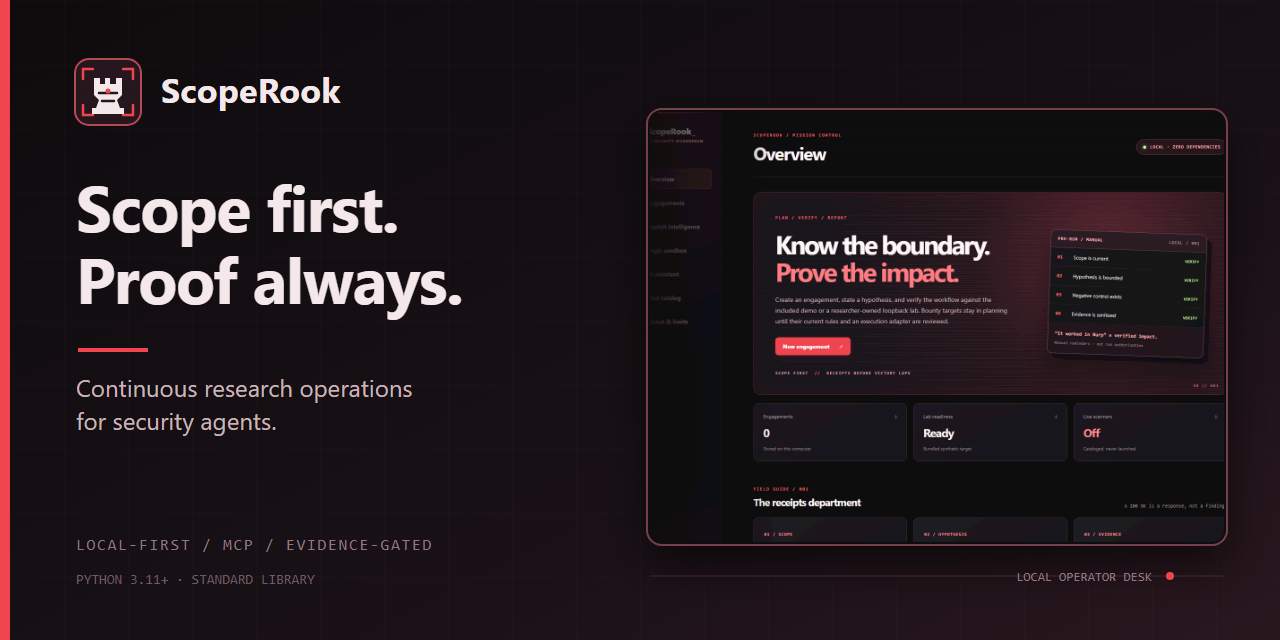
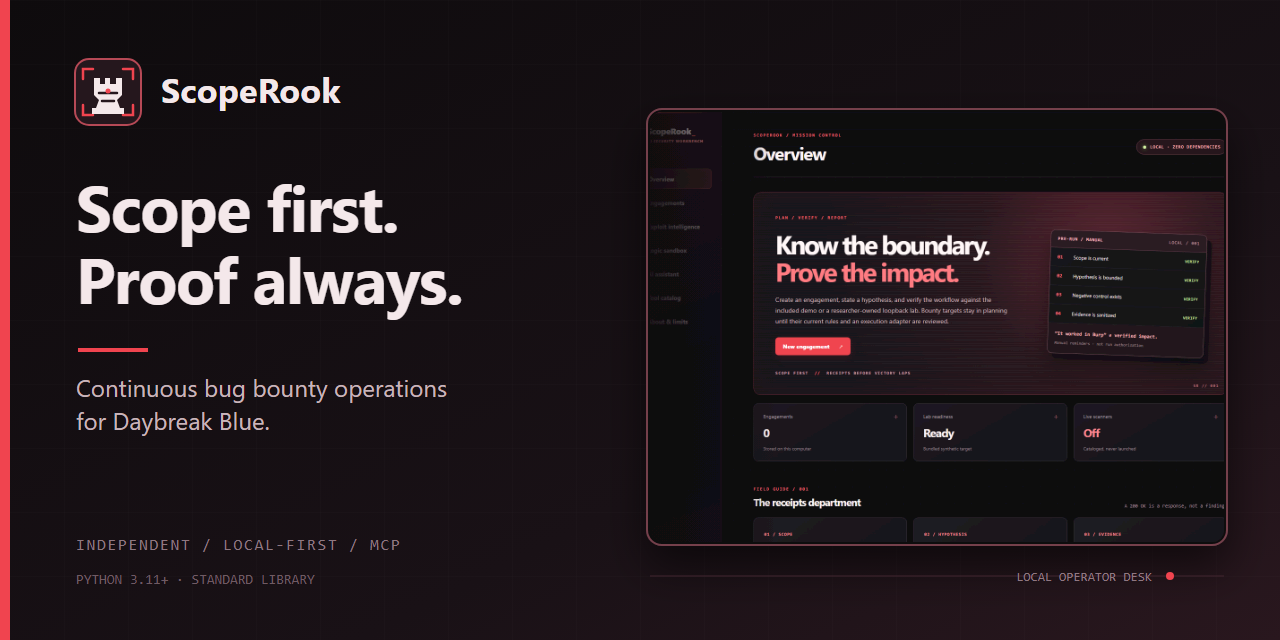
License and position ScopeRook for Daybreak Blue

Changed region(s): [[0.0938, 0.5938, 0.3438, 0.6875], [0.0625, 0.8438, 0.3438, 0.875]]

diff --git a/README.md b/README.md
@@ -2,27 +2,30 @@
   <img src="static/brand.svg" width="96" alt="ScopeRook logo">
 </p>
 
-<h1 align="center">ScopeRook</h1>
+<h1 align="center">ScopeRook for Daybreak Blue</h1>
 
 <p align="center"><strong>Scope first. Proof always.</strong></p>
 
 <p align="center">
-  A local-first operating layer for continuous, authorized bug bounty research with Codex, Daybreak Blue, and other MCP clients.
+  The local-first bug bounty operating layer built for Daybreak Blue.
 </p>
 
 <p align="center">
   <img alt="CI" src="https://img.shields.io/github/actions/workflow/status/Maverick0351a/scoperook/ci.yml?branch=main&label=tests">
   <img alt="Python 3.11+" src="https://img.shields.io/badge/Python-3.11%2B-3776AB?logo=python&logoColor=white">
   <img alt="MCP stdio" src="https://img.shields.io/badge/MCP-stdio-f0444f">
+  <img alt="Built for Daybreak Blue" src="https://img.shields.io/badge/built%20for-Daybreak%20Blue-b64956">
   <img alt="Local first" src="https://img.shields.io/badge/data-local--first-25171d">
   <img alt="Version 0.8.0" src="https://img.shields.io/badge/version-0.8.0-b64956">
 </p>
 
 ![ScopeRook dashboard](docs/assets/scoperook-overview.png)
 
-ScopeRook gives a security agent durable memory and explicit controls for the full bounty workflow: target selection, current scope, exact assets, coverage history, public vulnerability intelligence, candidate economics, validation contracts, evidence integrity, concise reporting, triage state, costs, time, and received cash. It keeps that state on the researcher's computer and returns one explainable next action when work resumes.
+Daybreak Blue supplies the security reasoning. ScopeRook supplies the durable operating context around it: target selection, current scope, exact assets, coverage history, public vulnerability intelligence, candidate economics, validation contracts, evidence integrity, concise reporting, triage state, costs, time, and received cash. It keeps that state on the researcher's computer and returns one explainable next action when work resumes.
 
 It does **not** scan targets, run arbitrary commands, hold credentials, or submit reports. Target-facing execution remains a separate, explicitly authorized step.
+
+ScopeRook is an independent product built to work with Daybreak Blue through an approved Codex workspace or API project. It does not bundle, proxy, resell, or provide access to Daybreak Blue and is not affiliated with or endorsed by OpenAI.
 
 | Resume without reconstruction | Fail closed on stale scope | Prove only what happened |
 |---|---|---|
@@ -44,15 +47,15 @@ python workbench.py --data-dir C:/private/scoperook-data --port 8767
 
 AI drafting is off by default. An optional OpenAI-compatible local model can be selected explicitly with `--model-port PORT`; ScopeRook connects only to `127.0.0.1:PORT` for a requested draft. There is no cloud fallback, API-key collection, automatic model download, or background prompt transfer.
 
-## Connect an MCP client
+## Connect Daybreak Blue
 
-`scoperook_daybreak_server.py` is the primary dependency-free stdio MCP server. Register it with an explicit Python executable, repository path, private data directory, and optional WSL distribution for reviewed synthetic labs:
+`scoperook_daybreak_server.py` is the primary dependency-free stdio MCP server for the Daybreak Blue workflow. Register it in Codex with an explicit Python executable, repository path, private data directory, and optional WSL distribution for reviewed synthetic labs:
 
 ```sh
 codex mcp add scoperook -- python C:/path/to/scoperook/scoperook_daybreak_server.py --data-dir C:/private/scoperook-data --sandbox-distro Ubuntu
 ```
 
-Claude and other stdio MCP clients use the same command and arguments. `scoperook_mcp.py` remains a smaller compatibility server.
+Other stdio MCP clients can use the same command and arguments, while `scoperook_mcp.py` remains a smaller compatibility server. ScopeRook's product experience and prompts are optimized for Daybreak Blue.
 
 The primary server exposes compact tools, resources, and prompts for:
 
@@ -140,6 +143,8 @@ The suite covers the web API, portfolio/history behavior, a 100-target and 5,000
 
 ## Status and license
 
-ScopeRook 0.8.0 is a **private-beta candidate**. The continuous workflow and scale tests are implemented; public charging remains blocked on license selection, signed distribution, sensitive-value handling, executor capability receipts, and outside researcher validation. ScopeRook does not promise accepted reports or income.
+ScopeRook 0.8.0 is a **Daybreak Blue private-beta candidate**. The continuous workflow and scale tests are implemented; public charging remains blocked on signed distribution, sensitive-value handling, executor capability receipts, and outside researcher validation. ScopeRook does not promise accepted reports or income.
 
-A project license has not yet been selected. The source is visible for evaluation, but redistribution and derivative-use rights are not granted until a license is added.
+The community core is licensed under the [Apache License 2.0](LICENSE). Future hosted, collaboration, support, and commercial components may be offered separately.
+
+ScopeRook is an independent project. OpenAI, Codex, and Daybreak Blue names belong to their respective owners; their use here describes compatibility and the intended workflow.

diff --git a/docs/competitive-analysis.md b/docs/competitive-analysis.md
@@ -27,7 +27,7 @@ Primary references:
 
 ## Product position
 
-ScopeRook should be the **bug-bounty operating layer for a capable security agent**, rather than the agent or scanner itself. It should make the model consistently answer five questions before spending requests:
+ScopeRook should be the **bug-bounty operating layer for Daybreak Blue**, rather than another agent or scanner. It should make Daybreak consistently answer five questions before spending requests:
 
 1. Is this exact activity authorized now?
 2. What concrete attacker payoff could the program reward?
@@ -41,7 +41,7 @@ Its moat is the connected record from policy to candidate, control, evidence has
 
 The product must not bundle, resell, proxy, or provide downstream access to Daybreak. Each customer uses ScopeRook as a local stdio MCP from their own approved Codex workspace or API project. ScopeRook does not collect the customer's OpenAI credentials.
 
-Daybreak Blue is a strong fit for secure code review, vulnerability discovery and triage, threat modeling, synthetic validation, evidence reduction, remediation, and patch verification. Advanced penetration testing, exploit development, or live exploit-chain validation belongs to a separately approved Daybreak Red workflow or a human-operated authorized executor. ScopeRook should expose that distinction in its agent brief instead of letting the model infer it.
+Daybreak Blue is a strong fit for secure code review, vulnerability discovery and triage, threat modeling, synthetic validation, evidence reduction, remediation, and patch verification. Advanced live testing and exploit-chain validation remain separate, explicitly authorized executor work. ScopeRook should expose that distinction in its agent brief instead of letting the model infer it.
 
 The MCP should optimize for Daybreak by returning compact structured objects rather than long prose, presenting one next action, keeping current scope and evidence state durable, marking source text as untrusted data, and putting authorization and request limits in code outside the model.
 
@@ -76,7 +76,7 @@ Official boundaries:
 2. **Sensitive-value vault:** keep session material outside model context and expose only stable local tokens. The MCP must not become a credential manager exposed to the agent.
 3. **Executor receipts:** optional adapters receive a short-lived capability containing exact asset, activity, maximum requests, concurrency, deadline, redirect rule, user agent, and stop conditions. No generic shell or arbitrary command tool.
 4. **Postman import:** apply the same value-stripping contract now implemented for HAR and OpenAPI JSON.
-5. **Signed distribution:** license choice, signed releases, SBOM, security policy, update provenance, and reproducible package tests.
+5. **Signed distribution:** signed releases, SBOM, security policy, update provenance, Apache-2.0 notices, and reproducible package tests.
 6. **External validation:** at least ten researchers complete the workflow, three use it repeatedly, and evidence shows reduced time or improved report completeness. Downloads and tool-call counts are not sufficient.
 
 The measurable release gates and launch sequence are maintained in [`launch-readiness.md`](launch-readiness.md).
@@ -88,4 +88,4 @@ The measurable release gates and launch sequence are maintained in [`launch-read
 - **Team:** shared policy and methodology packs, roles, centralized tamper-evident audit records, and organization support.
 - **Optional executors:** separately installed and disabled by default. Start with local artifact analysis and authenticated owner-versus-control comparisons; add broader active tools only after capability receipts and independent request accounting pass adversarial tests.
 
-This position is narrower than Strix or Neo, but it is more credible for independent bounty researchers: fewer wasted candidates, fewer unsupported reports, better privacy, and a clear record of whether the work produced accepted findings and cash.
+This position is narrower than Strix or Neo, but it gives Daybreak Blue users a clearer product to buy: fewer repeated or wasted candidates, fewer unsupported reports, better privacy, and a durable record of whether the work produced accepted findings and cash.

diff --git a/docs/productization.md b/docs/productization.md
@@ -2,9 +2,11 @@
 
 ## Position
 
-ScopeRook should sell a reliable authorization, research, synthetic-validation, evidence, and reporting workflow for security agents. It should not sell a promise to find bounties, access to exploit code, or unrestricted target automation.
+ScopeRook should sell as the **local bug bounty operating layer for Daybreak Blue**. Daybreak Blue provides the security reasoning; ScopeRook provides the durable target portfolio, authorization state, public intelligence, validation contract, evidence chain, reporting state, and outcome history that make repeated bounty work practical.
 
-The useful differentiator is a local-first continuous hunting record: a researcher or Daybreak agent can choose a target, resume the exact unfinished lane, avoid repeating old work, preserve scope revisions and evidence, and learn from triage and financial outcomes. An optional bring-your-own-cloud sandbox can later run only reviewed synthetic fixtures in the customer's cloud account.
+The product should sell workflow quality and continuity rather than model access. Customers bring their own approved Codex workspace or API project; ScopeRook does not bundle, proxy, resell, or collect access credentials for Daybreak Blue. It should not sell a promise to find bounties, access to exploit code, or unrestricted target automation.
+
+The useful differentiator is a local-first continuous hunting record: a Daybreak Blue user can choose a target, resume the exact unfinished lane, avoid repeating old work, preserve scope revisions and evidence, and learn from triage and financial outcomes. An optional bring-your-own-cloud sandbox can later run only reviewed synthetic fixtures in the customer's cloud account.
 
 ## Initial offer
 
@@ -14,8 +16,8 @@ After validation:
 
 | Plan | Suggested price | Included value |
 | --- | ---: | --- |
-| Community | Free | Local MCP, continuous target portfolio and history, scope records, current public-source lookups, existing-tool routing, sanitized HAR/OpenAPI/Nuclei metadata import, symbolic simulation, bundled synthetic labs, local evidence files |
-| Pro | $19/month or $190/year | Signed policy snapshots and change alerts, private lab packs, richer evidence export, job history, update channel, BYOC Oracle orchestration, individual commercial use |
+| Community | Free | Apache-2.0 Daybreak Blue MCP, continuous target portfolio and history, scope records, current public-source lookups, existing-tool routing, sanitized HAR/OpenAPI/Nuclei metadata import, symbolic simulation, bundled synthetic labs, local evidence files |
+| Pro | $19/month or $190/year | Supported Daybreak Blue workflow packs, signed policy snapshots and change alerts, private lab packs, richer evidence export, job history, update channel, and BYOC Oracle orchestration |
 | Team | $49/user/month, three-seat minimum | Shared policy packs, role controls, centralized audit records, reusable team labs, support, and organization billing |
 | Enterprise | Custom | Self-hosted control plane, SSO, retention controls, deployment review, procurement, and support commitments |
 
@@ -31,7 +33,7 @@ Cloud compute is separate. With BYOC, the customer pays Oracle directly and Scop
 
 ## Before charging
 
-- Select a repository license and decide which cloud and team components, if any, remain proprietary. Apache-2.0 maximizes adoption; AGPL protects hosted improvements but can slow enterprise adoption.
+- Keep the Apache-2.0 community-core boundary clear and decide which future hosted, collaboration, support, and commercial components remain separate.
 - Review the redistribution, attribution, and commercial-use terms for every external data source. Prefer live links and normalized metadata over repackaging third-party exploit content.
 - Add signed releases, an update provenance story, a security policy, vulnerability reporting address, privacy notice, acceptable-use terms, and a clear statement that program authorization remains target-specific.
 - Keep telemetry opt-in. Never collect target URLs, credentials, program text, evidence bodies, or report drafts by default.

diff --git a/docs/launch-readiness.md b/docs/launch-readiness.md
@@ -2,7 +2,7 @@
 
 ## Current decision
 
-Continue private development and a small researcher beta. Do not launch a paid public product yet. The continuous target portfolio, history, public intelligence, sanitized imports, evidence controls, and Daybreak-oriented MCP form a credible product core, but distribution, sensitive-value handling, executor receipts, corpus testing, and outside validation remain material launch blockers.
+Continue private development and a small researcher beta. Do not launch a paid public product yet. ScopeRook is positioned as the independent bug bounty operating layer for Daybreak Blue. The continuous target portfolio, history, public intelligence, sanitized imports, and evidence controls form a credible product core, but distribution, sensitive-value handling, executor receipts, corpus testing, and outside validation remain material launch blockers.
 
 ScopeRook must be sold as an operating layer that helps researchers choose, document, resume, and support authorized bounty work. It must not promise accepted findings or income.
 
@@ -20,7 +20,7 @@ ScopeRook must be sold as an operating layer that helps researchers choose, docu
 
 ## Engineering gates before a public beta
 
-1. Select the repository and commercial-component licenses. Produce attribution notices for every dependency and data source.
+1. Maintain the Apache-2.0 community-core license, NOTICE file, and attribution records for every integrated dependency and data source.
 2. Add signed builds, checksums, SBOMs, a security policy, vulnerability-reporting address, privacy notice, and documented update provenance.
 3. Add a private sensitive-value vault that exposes stable local references to the agent and never returns raw credentials or session material.
 4. Define a versioned engagement schema with backup, restore, migration, downgrade, and corrupt-record recovery tests.
@@ -33,7 +33,7 @@ ScopeRook must be sold as an operating layer that helps researchers choose, docu
 
 The repository now has a concise product front page, real dashboard and social-preview assets, a security policy, contribution and conduct guidance, structured issue forms, a pull-request checklist, release notes, and pinned cross-platform CI for Python 3.11 and 3.12. The 100-target and 5,000-session portfolio gate passes, along with 45 unit tests.
 
-The next publication gate is the repository license. After that choice, build and test the exact v0.8.0 archive, publish its checksum, and verify CI on the public commit. Signed distribution, SBOM generation, private sensitive-value references, versioned migrations, executor receipts, and outside-user validation remain open before a paid public launch.
+The Apache-2.0 community-core license is selected. Build and test the exact v0.8.0 archive, publish its checksum, and verify CI on the public commit. Signed distribution, SBOM generation, private sensitive-value references, versioned migrations, executor receipts, and outside-user validation remain open before a paid public launch.
 
 ## Beta success gates
 

diff --git a/docs/releases/v0.8.0.md b/docs/releases/v0.8.0.md
@@ -1,6 +1,6 @@
 # ScopeRook 0.8.0
 
-ScopeRook 0.8.0 turns the local research desk into a continuous operating layer for bug bounty agents. A researcher can now preserve a portfolio of targets, resume the correct target from durable history, and carry scope, evidence, reporting, and outcome state through the whole workflow.
+ScopeRook 0.8.0 turns the local research desk into an independent, continuous bug bounty operating layer for Daybreak Blue. A researcher can now preserve a portfolio of targets, resume the correct target from durable history, and carry scope, evidence, reporting, and outcome state through the whole workflow.
 
 ## Highlights
 
@@ -23,4 +23,4 @@ Back up the private data directory, replace the application files, and keep the 
 
 ## Known boundaries
 
-ScopeRook 0.8.0 remains a private-beta candidate. It does not contain live target adapters, scanner execution, credential storage, report submission, signed distribution, executor receipts, or a deployed Oracle backend. A repository license must be selected before this candidate is published as a new public release.
+ScopeRook 0.8.0 remains a private-beta candidate. It does not contain live target adapters, scanner execution, credential storage, report submission, signed distribution, executor receipts, or a deployed Oracle backend. The community core is licensed under Apache-2.0. Users supply their own approved Daybreak Blue access; ScopeRook is independent and is not affiliated with or endorsed by OpenAI.

diff --git a/CONTRIBUTING.md b/CONTRIBUTING.md
@@ -32,4 +32,4 @@ Use temporary or synthetic data. Never commit the `data/` directory, credentials
 
 Lead with the concrete problem and resulting behavior. Include the validation that matters to a reviewer. Add tests for meaningful behavior changes, update documentation, and keep generated artifacts out of the diff.
 
-By contributing, you confirm that you have the right to submit the work. A repository license has not yet been selected; contribution terms will be formalized before accepting outside code.
+By contributing, you confirm that you have the right to submit the work and agree that the contribution may be distributed under the repository's Apache-2.0 license.

diff --git a/CHANGELOG.md b/CHANGELOG.md
@@ -4,7 +4,7 @@ All notable ScopeRook changes are recorded here.
 
 ## [Unreleased]
 
-- Repository presentation, contribution guidance, security policy, issue templates, and cross-platform CI.
+- Licensed the community core under Apache-2.0 and positioned ScopeRook as an independent Daybreak Blue bug bounty utility.
 
 ## [0.8.0] - 2026-10-05
 
